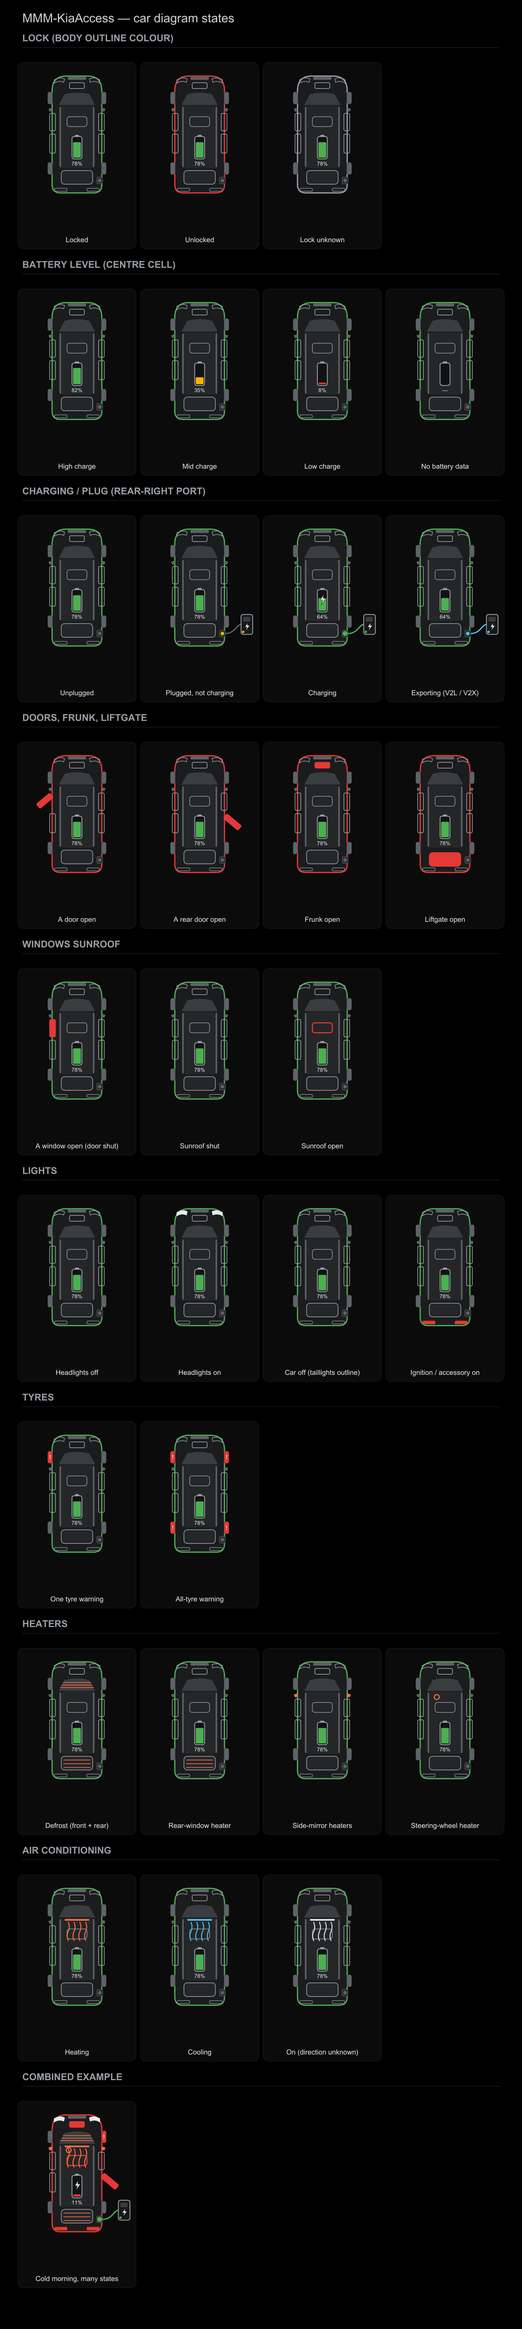
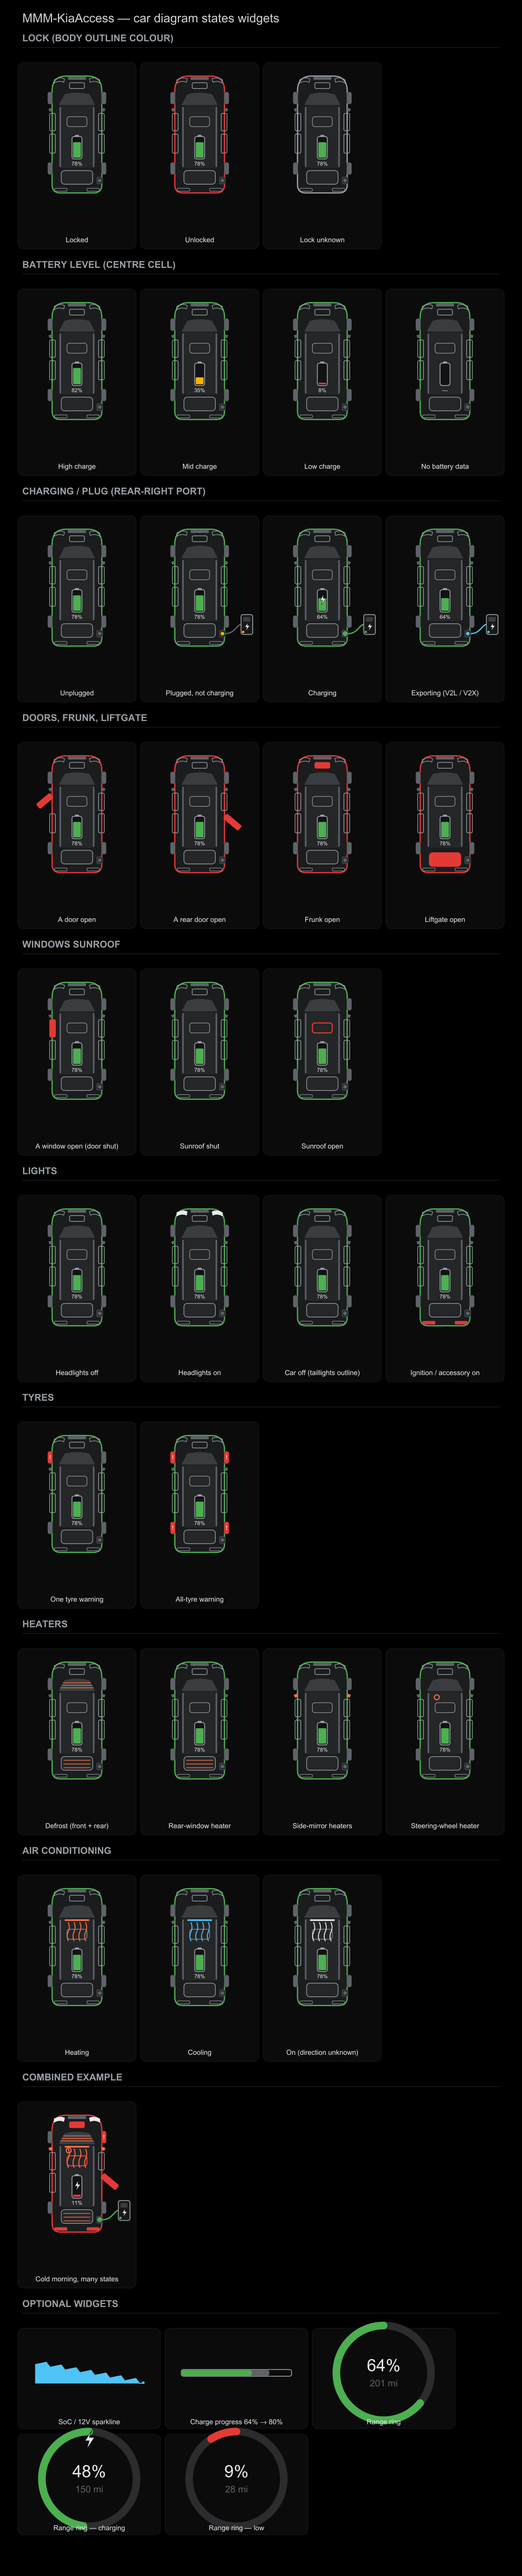
Add 12V-battery sparkline widget; put widgets in the state gallery
- visuals.v12History (+ v12HistoryDays): a 12V-% sparkline alongside the
  existing socHistory (EV %); shared historySparkEl() helper
- docs/car-states.{png,html} + build-gallery.js now include an
  "Optional widgets" section (sparkline, charge bar, range rings)

diff --git a/docs/car-states.html b/docs/car-states.html
@@ -12,9 +12,9 @@ h2{font-weight:600;font-size:13px;color:#9aa0a6;letter-spacing:.06em;text-transf
 .card svg{display:block;margin:0 auto;max-width:100%;height:auto}
 .t{font-size:12.5px;color:#e8eaed;margin-top:8px;text-align:center}
 </style></head><body>
-<h1>MMM-KiaAccess — car diagram states</h1>
-<p class="sub">Every state the top-down diagram can present. Front of the car is up.
-Animations (pulses, charge flow, heater shimmer) play live here; car-states.png is a snapshot.</p>
+<h1>MMM-KiaAccess — car diagram states &amp; widgets</h1>
+<p class="sub">Every state the top-down diagram can present, plus the optional widgets.
+Front of the car is up. Animations play live here; car-states.png is a snapshot.</p>
 <div id="out"></div>
 <script>/* Optional graphical widgets for MMM-KiaAccess.
  *
@@ -638,14 +638,25 @@ Animations (pulses, charge flow, heater shimmer) play live here; car-states.png 
 const V = KiaAccessVisuals;
 const groups = [["Lock (body outline colour)",[["Locked",{"locked":true,"batteryPct":78,"carOn":false,"headlights":false}],["Unlocked",{"locked":false,"batteryPct":78,"carOn":false,"headlights":false}],["Lock unknown",{"locked":null,"batteryPct":78,"carOn":false,"headlights":false}]]],["Battery level (centre cell)",[["High charge",{"locked":true,"batteryPct":82,"carOn":false,"headlights":false}],["Mid charge",{"locked":true,"batteryPct":35,"carOn":false,"headlights":false}],["Low charge",{"locked":true,"batteryPct":8,"carOn":false,"headlights":false}],["No battery data",{"locked":true,"batteryPct":null,"carOn":false,"headlights":false}]]],["Charging / plug (rear-right port)",[["Unplugged",{"locked":true,"batteryPct":78,"carOn":false,"headlights":false}],["Plugged, not charging",{"locked":true,"batteryPct":78,"carOn":false,"headlights":false,"plugged":true}],["Charging",{"locked":true,"batteryPct":64,"carOn":false,"headlights":false,"charging":true}],["Exporting (V2L / V2X)",{"locked":true,"batteryPct":64,"carOn":false,"headlights":false,"v2l":true}]]],["Doors, frunk, liftgate",[["A door open",{"locked":false,"batteryPct":78,"carOn":false,"headlights":false,"doorFL":true}],["A rear door open",{"locked":false,"batteryPct":78,"carOn":false,"headlights":false,"doorRR":true}],["Frunk open",{"locked":false,"batteryPct":78,"carOn":false,"headlights":false,"hood":true}],["Liftgate open",{"locked":false,"batteryPct":78,"carOn":false,"headlights":false,"trunk":true}]]],["Windows & sunroof",[["A window open (door shut)",{"locked":true,"batteryPct":78,"carOn":false,"headlights":false,"winFL":true}],["Sunroof shut",{"locked":true,"batteryPct":78,"carOn":false,"headlights":false}],["Sunroof open",{"locked":true,"batteryPct":78,"carOn":false,"headlights":false,"sunroof":true}]]],["Lights",[["Headlights off",{"locked":true,"batteryPct":78,"carOn":false,"headlights":false}],["Headlights on",{"locked":true,"batteryPct":78,"carOn":false,"headlights":true}],["Car off (taillights outline)",{"locked":true,"batteryPct":78,"carOn":false,"headlights":false}],["Ignition / accessory on",{"locked":true,"batteryPct":78,"carOn":true,"headlights":false}]]],["Tyres",[["One tyre warning",{"locked":true,"batteryPct":78,"carOn":false,"headlights":false,"tyreFL":true}],["All-tyre warning",{"locked":true,"batteryPct":78,"carOn":false,"headlights":false,"tyreAny":true}]]],["Heaters",[["Defrost (front + rear)",{"locked":true,"batteryPct":78,"carOn":false,"headlights":false,"defrost":true}],["Rear-window heater",{"locked":true,"batteryPct":78,"carOn":false,"headlights":false,"rearHeat":true}],["Side-mirror heaters",{"locked":true,"batteryPct":78,"carOn":false,"headlights":false,"mirrorHeat":true}],["Steering-wheel heater",{"locked":true,"batteryPct":78,"carOn":false,"headlights":false,"steerHeat":true}]]],["Air conditioning",[["Heating",{"locked":true,"batteryPct":78,"carOn":false,"headlights":false,"climate":"heat"}],["Cooling",{"locked":true,"batteryPct":78,"carOn":false,"headlights":false,"climate":"cool"}],["On (direction unknown)",{"locked":true,"batteryPct":78,"carOn":false,"headlights":false,"climate":"on"}]]],["Combined example",[["Cold morning, many states",{"locked":false,"batteryPct":11,"carOn":true,"headlights":true,"charging":true,"doorRR":true,"hood":true,"sunroof":true,"tyreFR":true,"climate":"heat","defrost":true,"rearHeat":true,"mirrorHeat":true,"steerHeat":true}]]]];
 const out = document.getElementById("out");
+function section(title){ const h=document.createElement("h2"); h.textContent=title; out.appendChild(h);
+  const g=document.createElement("div"); g.className="grid"; out.appendChild(g); return g; }
+function card(g, name, html){ const c=document.createElement("div"); c.className="card";
+  c.innerHTML = html + '<div class="t">' + name + '</div>'; g.appendChild(c); }
+
 for (const [title, cards] of groups) {
-  const h = document.createElement("h2"); h.textContent = title; out.appendChild(h);
-  const g = document.createElement("div"); g.className = "grid";
-  for (const [name, state] of cards) {
-    const c = document.createElement("div"); c.className = "card";
-    c.innerHTML = V.carDiagram(state, { width: 200 }) + '<div class="t">' + name + '</div>';
-    g.appendChild(c);
-  }
-  out.appendChild(g);
+  const g = section(title);
+  for (const [name, state] of cards) card(g, name, V.carDiagram(state, { width: 200 }));
 }
+
+// ---- optional widgets ----
+const now = Date.now();
+const hist = Array.from({ length: 30 }, (_, i) => ({
+  t: now - (29 - i) * 864e5, v: 92 - i * 1.4 + (i % 4) * 3
+}));
+let g = section("Optional widgets");
+card(g, "SoC / 12V sparkline", V.sparkline(hist, { width: 200, height: 44 }));
+card(g, "Charge progress (64% → 80%)", V.chargeBar(64, 80, { width: 200 }));
+card(g, "Range ring", V.rangeRing(64, { centreText: "201 mi" }));
+card(g, "Range ring — charging", V.rangeRing(48, { charging: true, centreText: "150 mi" }));
+card(g, "Range ring — low", V.rangeRing(9, { centreText: "28 mi" }));
 </script></body></html>

diff --git a/MMM-KiaAccess.js b/MMM-KiaAccess.js
@@ -83,8 +83,10 @@ Module.register("MMM-KiaAccess", {
       compact: false, // one-line summary instead of the diagram + table
       chargeProgress: true, // when plugged in: a progress bar + "full at HH:MM"
       rangeRing: false, // a radial SoC / range gauge under the car
-      socHistory: false, // a battery-% sparkline over the last `socHistoryDays`
+      socHistory: false, // an EV-battery-% sparkline over the last `socHistoryDays`
       socHistoryDays: 14,
+      v12History: false, // a 12V-battery-% sparkline (spot vampire drain / a dying 12V)
+      v12HistoryDays: 14,
       tripStats: false, // distance / consumption / regen from month_trip_info
       location: {
         enabled: false,
@@ -558,28 +560,44 @@ Module.register("MMM-KiaAccess", {
     return el;
   },
 
-  socHistoryEl() {
-    const vis = this.config.visuals || {};
-    if (!vis.socHistory) return null;
-    const days = vis.socHistoryDays || 14;
+  historySparkEl(series, days, color, caption) {
     const cutoff = Date.now() - days * 864e5;
     const pts = (this.history || [])
-      .filter((h) => h && h.t >= cutoff && h.ev != null)
-      .map((h) => ({ t: h.t, v: h.ev }));
+      .filter((h) => h && h.t >= cutoff && h[series] != null)
+      .map((h) => ({ t: h.t, v: h[series] }));
     if (pts.length < 2) return null;
+    const last = pts[pts.length - 1].v;
     const el = document.createElement("div");
     el.className = "kiaaccess-visuals";
     el.innerHTML = this.visuals.sparkline(pts, {
-      width: vis.width || 210,
+      width: (this.config.visuals || {}).width || 210,
       height: 40,
-      color: this.visuals.COL.ok
+      color: color
     });
     const cap = document.createElement("div");
     cap.className = "kiaaccess-batt-detail";
     cap.innerHTML =
-      '<div><span class="kiaaccess-bd-label">Battery, last ' + days + " days</span></div>";
+      '<div><span class="kiaaccess-bd-label">' +
+      this.escape(caption) +
+      '</span><span class="kiaaccess-bd-value">' +
+      Math.round(last) +
+      "%</span></div>";
     el.appendChild(cap);
     return el;
+  },
+
+  socHistoryEl() {
+    const vis = this.config.visuals || {};
+    if (!vis.socHistory) return null;
+    const days = vis.socHistoryDays || 14;
+    return this.historySparkEl("ev", days, this.visuals.COL.ok, "EV battery, last " + days + " d");
+  },
+
+  v12HistoryEl() {
+    const vis = this.config.visuals || {};
+    if (!vis.v12History) return null;
+    const days = vis.v12HistoryDays || 14;
+    return this.historySparkEl("v12", days, this.visuals.COL.warn, "12V battery, last " + days + " d");
   },
 
   locationEl() {
@@ -803,6 +821,7 @@ Module.register("MMM-KiaAccess", {
         this.chargeProgressEl(),
         this.rangeRingEl(),
         this.socHistoryEl(),
+        this.v12HistoryEl(),
         this.preconditionEl(),
         this.chargeCostEl(),
         this.tripStatsEl(),

diff --git a/docs/build-gallery.js b/docs/build-gallery.js
@@ -92,25 +92,36 @@ h2{font-weight:600;font-size:13px;color:#9aa0a6;letter-spacing:.06em;text-transf
 .card svg{display:block;margin:0 auto;max-width:100%;height:auto}
 .t{font-size:12.5px;color:#e8eaed;margin-top:8px;text-align:center}
 </style></head><body>
-<h1>MMM-KiaAccess — car diagram states</h1>
-<p class="sub">Every state the top-down diagram can present. Front of the car is up.
-Animations (pulses, charge flow, heater shimmer) play live here; car-states.png is a snapshot.</p>
+<h1>MMM-KiaAccess — car diagram states &amp; widgets</h1>
+<p class="sub">Every state the top-down diagram can present, plus the optional widgets.
+Front of the car is up. Animations play live here; car-states.png is a snapshot.</p>
 <div id="out"></div>
 <script>${visuals}</script>
 <script>
 const V = KiaAccessVisuals;
 const groups = ${groupsJson};
 const out = document.getElementById("out");
+function section(title){ const h=document.createElement("h2"); h.textContent=title; out.appendChild(h);
+  const g=document.createElement("div"); g.className="grid"; out.appendChild(g); return g; }
+function card(g, name, html){ const c=document.createElement("div"); c.className="card";
+  c.innerHTML = html + '<div class="t">' + name + '</div>'; g.appendChild(c); }
+
 for (const [title, cards] of groups) {
-  const h = document.createElement("h2"); h.textContent = title; out.appendChild(h);
-  const g = document.createElement("div"); g.className = "grid";
-  for (const [name, state] of cards) {
-    const c = document.createElement("div"); c.className = "card";
-    c.innerHTML = V.carDiagram(state, { width: 200 }) + '<div class="t">' + name + '</div>';
-    g.appendChild(c);
-  }
-  out.appendChild(g);
+  const g = section(title);
+  for (const [name, state] of cards) card(g, name, V.carDiagram(state, { width: 200 }));
 }
+
+// ---- optional widgets ----
+const now = Date.now();
+const hist = Array.from({ length: 30 }, (_, i) => ({
+  t: now - (29 - i) * 864e5, v: 92 - i * 1.4 + (i % 4) * 3
+}));
+let g = section("Optional widgets");
+card(g, "SoC / 12V sparkline", V.sparkline(hist, { width: 200, height: 44 }));
+card(g, "Charge progress (64% → 80%)", V.chargeBar(64, 80, { width: 200 }));
+card(g, "Range ring", V.rangeRing(64, { centreText: "201 mi" }));
+card(g, "Range ring — charging", V.rangeRing(48, { charging: true, centreText: "150 mi" }));
+card(g, "Range ring — low", V.rangeRing(9, { centreText: "28 mi" }));
 </script></body></html>
 `;
 

diff --git a/README.md b/README.md
@@ -218,7 +218,8 @@ Common EV9 (US) paths:
 | `visuals.compact` | `false` | one-line summary (`78% · 312 mi · 🔒`) instead of the diagram + table |
 | `visuals.chargeProgress` | `true` | progress bar + "full at HH:MM" while plugged in |
 | `visuals.rangeRing` | `false` | radial SoC / range gauge under the car |
-| `visuals.socHistory` | `false` | battery-% sparkline (`visuals.socHistoryDays`, default 14) |
+| `visuals.socHistory` | `false` | EV-battery-% sparkline (`visuals.socHistoryDays`, default 14) |
+| `visuals.v12History` | `false` | 12V-battery-% sparkline (`visuals.v12HistoryDays`, default 14) — spot vampire drain |
 | `visuals.tripStats` | `false` | distance / consumption / regen from `month_trip_info` |
 | `visuals.location` | `{ enabled:false }` | "N mi from home" + address, optional static `map` — see [Location](#location--map) |
 | `visuals.chargeCost` | `{ enabled:false }` | estimated cost to the charge target (`pricePerKwh`, `currency`) |
@@ -294,7 +295,9 @@ automatically so nothing is duplicated. The diagram always reads the real
 
 #### Every state, visually
 
-![Car diagram states](docs/car-states.png)
+Every diagram state and every optional widget:
+
+![Car diagram states and widgets](docs/car-states.png)
 
 Open [`docs/car-states.html`](docs/car-states.html) for the same gallery with the
 animations playing. Regenerate it from the current `visuals.js` with
@@ -308,8 +311,9 @@ Each is off by default and stacks under the car:
 - **`chargeProgress`** — while plugged in, a bar (current + target) and either
   "Full (80%) at 06:40" or "Plugged in, not charging".
 - **`rangeRing`** — a radial gauge: SoC on the ring, range in the centre.
-- **`socHistory`** — a battery-% sparkline over the last `socHistoryDays`, from the
-  history the helper keeps on disk.
+- **`socHistory`** / **`v12History`** — battery-% sparklines (EV and 12V) over the
+  last N days, from the history the helper keeps on disk. `v12History` is the one
+  to watch for a slow parasitic drain.
 - **`tripStats`** — this month's distance / average consumption / regen.
 - **`chargeCost`** — `{ enabled: true, pricePerKwh: 0.14, currency: "$" }` →
   "Est. cost to 80%: $6.40" (needs `ev_battery_capacity`).
